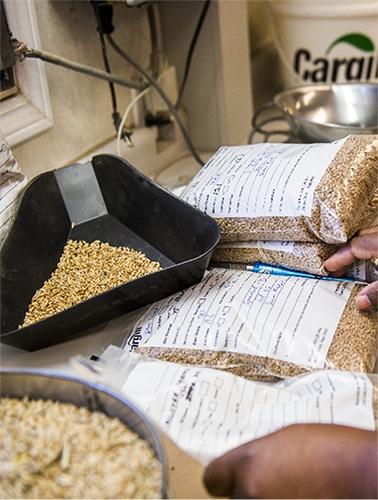
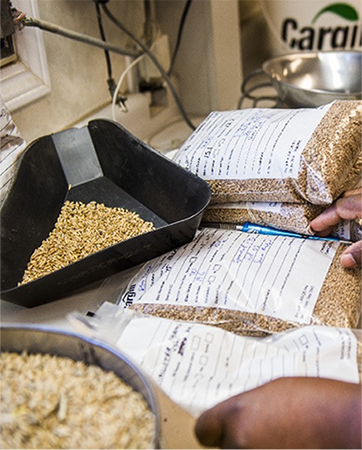
'update'

diff --git a/src/app/pages/m3-pop-up/m3-pop-up.component.ts b/src/app/pages/m3-pop-up/m3-pop-up.component.ts
@@ -20,6 +20,7 @@ export class M3PopUpComponent implements OnInit {
   show(n:any){
     this.selected = n;
     this.visit[n] = true;
+    this.service.shownavigation = false
   }
 
   show1(n:any){
@@ -28,6 +29,11 @@ export class M3PopUpComponent implements OnInit {
 
   close(n:any){
     this.selected = -1;
+    this.service.shownavigation = true
+  }
+
+  close1(n:any){
+    this.selected1 = -1;
   }
 
   content=[
@@ -35,17 +41,20 @@ export class M3PopUpComponent implements OnInit {
       img:"assets/m3_img5.jpg",
       text:"Nutrient concept that improves Young Pig growability",
       Popup:`<h2 class="bold">Improves Young Pig growability*</h2>
-      <p class="bold">What does it do?</p>
-      <ul>
+      <p class="bold m-0">What does it do?</p>
+      <ul class="m-0">
         <li>Helps feed intake, weight gain, and growth uniformity</li>
         <li>Improves gut health and reduces diarrhea</li>
         <li>Stimulates development of the digestive system as piglets move away from milk</li>
         <li>Reduces reliance on antibiotics and zinc oxide</li>
       </ul>
-      <p class="bold">How does it do it?</p>
-      <ul>
+      <p class="bold m-0">How does it do it?</p>
+      <ul class="m-0">
         <li>Prepares piglet digestive system for weaning by helping transition from sow milk to 100% solid feed</li>
-        <li>Splits transition feeding into phases to maximize feed intake and encourage growth <br>Phases include Neonatal, Transition, NeoTrans, and Starter</li>
+        <li>Splits transition feeding into phases to maximize feed intake and encourage growth </li>
+           <ul class="no_style">
+           <li>Phases include Neonatal, Transition, NeoTrans, and Starter</li>
+           </ul>
         <li>Decreases feed costs by creating feeding system phases</li>
       </ul>`,
       note:"Global brand for young pigs not used in every country.*"
@@ -55,15 +64,15 @@ export class M3PopUpComponent implements OnInit {
       img:"assets/m3_img6.jpg",
       text:"Nutrient concept that enhances Sow productivity & Piglet livability",
       Popup:`<h2 class="bold">Enhances Sow productivity & Piglet livability</h2>
-      <p class="bold">What does it do?</p>
-      <ul>
+      <p class="bold m-0">What does it do?</p>
+      <ul class="m-0">
         <li>Increases milk production and sow immunity</li>
         <li>Better manages hyper prolific sows</li>
         <li>Develops sows/gilts and increases lifetime productivity</li>
         <li>Reduces scouring and health issues </li>
       </ul>
-      <pclass="bold">How does it do it?</p>
-      <ul>
+      <p class="bold m-0">How does it do it?</p>
+      <ul class="m-0">
         <li>Uses precise nutrition based on ingredient assessment to Improve product consistency</li>
         <li>Applies our SW CHO FM (Swine Fermentable Carbohydrates) calculation which lowers constipation, farrowing time, and stillborn births</li>
         <li>Uses SW DCAD calculation to Increase milk yield</li>
@@ -74,15 +83,15 @@ export class M3PopUpComponent implements OnInit {
       img:"assets/m3_img7.jpg",
       text:"Nutrient concept that increases Grower-Finisher profitability",
       Popup:`<h2 class="bold">Increases Grower-Finisher profitability</h2>
-      <p class="bold">What does it do?</p>
-      <ul>
+      <p class="bold m-0">What does it do?</p>
+      <ul class="m-0">
         <li>Helps reduce formulation costs by better utilizing nutrients</li>
         <li>Improves carcass meat quality</li>
         <li>Simplifies farm management and helps customers operate more efficiently </li>
         <li>Increases gut health</li>
       </ul>
-      <pclass="bold">How does it do it?</p>
-      <ul>
+      <p class="bold m-0">How does it do it?</p>
+      <ul class="m-0">
         <li>Compares common nutrients to reduce formulation costs by improving nutrient utilization using CNS nutrients</li>
         <li>Estimates performance and feed conversion using pork MAX before customer decides</li>
         <li>Compares suppliers so customers choose the one that best meets their needs</li>
@@ -92,14 +101,14 @@ export class M3PopUpComponent implements OnInit {
       img:"assets/m3_img8.png",
       text:"Software platform that optimizes nutrition & modeling",
       Popup:`<h2 class="bold">Optimizes nutrition & modeling</h2>
-      <p class="bold">What does it do?</p>
-      <ul>
+      <p class="bold m-0">What does it do?</p>
+      <ul class="m-0">
         <li>Software platform that helps customers and their consultant make the best decisions in diet formulation, profitability, production, and nutrition </li>
         <li>Provides solutions for changing markets and gives “what-if” scenarios that show economic projections</li>
         <li>Determines a customized animal feed</li>
       </ul>
-      <pclass="bold">How does it do it?</p>
-      <ul>
+      <p class="bold m-0">How does it do it?</p>
+      <ul class="m-0">
         <li>Incorporates CNS technology and aligns it to formulation capabilities with the specific needs of the customer
         </li>
         <li>Uses CNS to understand animal requirements and links to the nutrient supply from key ingredients</li>
@@ -112,14 +121,14 @@ export class M3PopUpComponent implements OnInit {
       img:"assets/m3_img9.png",
       text:"Software platform that creates efficiencies in the ingredient and nutrient supply chain",
       Popup:`<h2 class="bold">Efficiency in the ingredient and nutrient supply chain</h2>
-      <p class="bold">What does it do?</p>
-      <ul>
+      <p class="bold m-0">What does it do?</p>
+      <ul class="m-0">
         <li>Cloud-based nutrition platform that connects processes to create efficiencies </li>
         <li>Optimizes nutrition by helping customers find the best suppliers and manage operations</li>
         <li>Supports better animal performance, integrates decision-making, and improves operational excellence</li>
       </ul>
-      <pclass="bold">How does it do it?</p>
-      <ul>
+      <p class="bold m-0">How does it do it?</p>
+      <ul class="m-0">
         <li>Manages ingredient and finished good samples through Nutrient Analysis capability using CNS</li>
         <li>Connects to CNS data to compare suppliers and manage ingredient variability so customers make informed purchase decisions</li>
         <li>Monitors feed bins, tracks feed consumption and feed bin history</li>

diff --git a/src/app/pages/m3-pop-up/m3-pop-up.component.html b/src/app/pages/m3-pop-up/m3-pop-up.component.html
@@ -4,7 +4,7 @@
 
             <div *ngIf="this.selected ==-1">
                 <div class="alignbase">
-                    <div class="{{this.service.data.default.main[1].children[service.parentIndex].mybox}}mybox">
+                  <div class="{{this.service.data.default.main[1].children[service.parentIndex].mybox}} mybox">
                     </div>
                     <div>
                         <h1>CNS is delivered through customized solutions</h1>
@@ -35,7 +35,7 @@
                   </div>
             </div> -->
 
-            <div class="margin-top">
+            <div class="">
               <table *ngIf="this.selected ==-1">
                 <tr>
                   <th>Customized solution</th>
@@ -106,7 +106,7 @@
                   <div class="instruction pointer" (click)="show1(i)" *ngIf = "selected1 != i">
                     {{item.instruction}}
                   </div>
-                  <div class="note" *ngIf="item.note">{{item.note}}</div>
+                  <div class="note pt-2" *ngIf="item.note">{{item.note}}</div>
                 </div>
               </div>
 

diff --git a/src/app/pages/m2-notepad/m2-notepad.component.html b/src/app/pages/m2-notepad/m2-notepad.component.html
@@ -16,7 +16,7 @@
 
 <!-- ///////////////////////////////////using flex-box////////////////////////////////////////////////////// -->
          <div *ngIf = "firstcontent == true">
-        <p>Our nutrient-focused methods create calculated nutrients like AAD-IDX and other proprietary nutrients that only Cargill and our customers can use. These proprietary calculated nutrients support the different needs in a pork system.</p>
+        <p class="m-0 pt-2">Our nutrient-focused methods create calculated nutrients like AAD-IDX and other proprietary nutrients that only Cargill and our customers can use. These proprietary calculated nutrients support the different needs in a pork system.</p>
 
 
 
@@ -30,6 +30,10 @@
         <div class="notebg f-16" (click) = "show4()"><img class="tick" src="assets/tick.svg" *ngIf = "this.visit4 == true">Swine Structural Carbohydrates<br> (SW CHO STR)</div>
 
       </div>
+</div>
+
+<div class="note pt-2" *ngIf = "firstcontent == true">
+    For additional details, see “Unique Cargill pork nutrients” modules.
 </div>
 
 

diff --git a/src/app/common/titlecard/titlecard.component.html b/src/app/common/titlecard/titlecard.component.html
@@ -24,7 +24,7 @@
             <p class="" [innerHTML]="service.content.para1.text"></p>
             <div [innerHTML]="service.content.para.textlist"></div>
             </div>
-              <div class="padding-bottom col-lg-4 pad-20" data-animatename="step1" data-animatetime='1' >
+              <div class="padding-bottom flex-1 text-center pad-20" data-animatename="step1" data-animatetime='1' >
                 <img class="" src="{{service.content.image.src}}" alt="{{service.content.image.alt}}" class="maximg">
               </div>
             </div>

diff --git a/src/styles.scss b/src/styles.scss
@@ -465,6 +465,14 @@ h3 {
   padding-top: 50px;
 }
 
+.pt-2{
+  padding-top: 20px;
+}
+
+.pt-3{
+  padding-top: 30px;
+}
+
 .p-0{
   padding: 0;
 }
@@ -473,8 +481,23 @@ h3 {
   margin: 0;
 }
 
+.mb-0{
+  margin-bottom: 0;
+}
+
+.mt-0{
+  margin-top: 0;
+}
+
 .note{
   text-align: right;
   font-size: 16px;
   color:  $green;
+}
+
+.no_style  {
+  li{
+    list-style: none;
+    background: none;
+  }
 }

diff --git a/src/app/common/video/video.component.html b/src/app/common/video/video.component.html
@@ -29,7 +29,7 @@
 
 
 
-            <div class="padding-bottom mt" data-animatename="step1" data-animatetime='1'>
+            <div class="padding-bottom" data-animatename="step1" data-animatetime='1'>
 
              <div class="video-box ">
               <video  controls poster="{{service.content.image.poster}}">

diff --git a/src/app/pages/m3-pop-up/m3-pop-up.component.scss b/src/app/pages/m3-pop-up/m3-pop-up.component.scss
@@ -9,14 +9,14 @@
     padding: 10px;
 }
 table{
-    margin: 50px auto;
+    margin: 0px  auto;
     // table-layout: fixed;
     // width: 100%;
 }
 table, th, td {
     border: 1px solid #eee;
     border-collapse: collapse;
-    padding: 10px;
+    padding: 5px;
   }
 
   th{

diff --git a/src/app/common/text-block/text-block.component.html b/src/app/common/text-block/text-block.component.html
@@ -75,5 +75,10 @@
         </div>
       </div>
     </div>
+
+    <div class="note" data-animatename="step1" data-animatetime='1'>
+      *As of May 2022
+    </div>
+
   </div>
 </div>

diff --git a/src/app/common/titlecard/titlecard.component.scss b/src/app/common/titlecard/titlecard.component.scss
@@ -33,3 +33,9 @@
     margin-right: 0px;
   }
 }
+
+
+.maximg {
+  max-width: 100%;
+  max-height: calc(100vh - 150px);
+}
